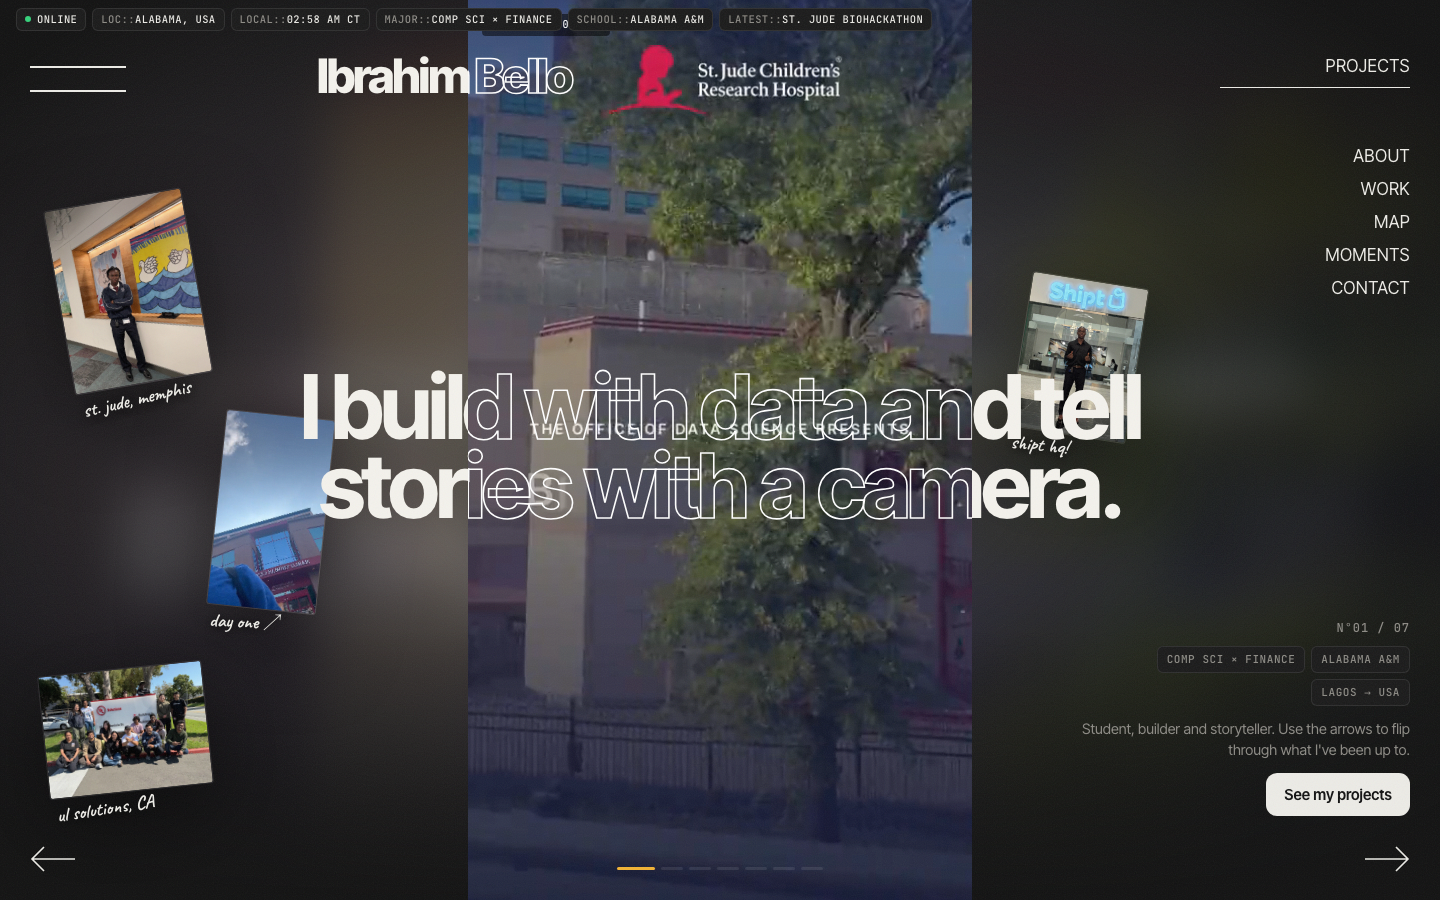
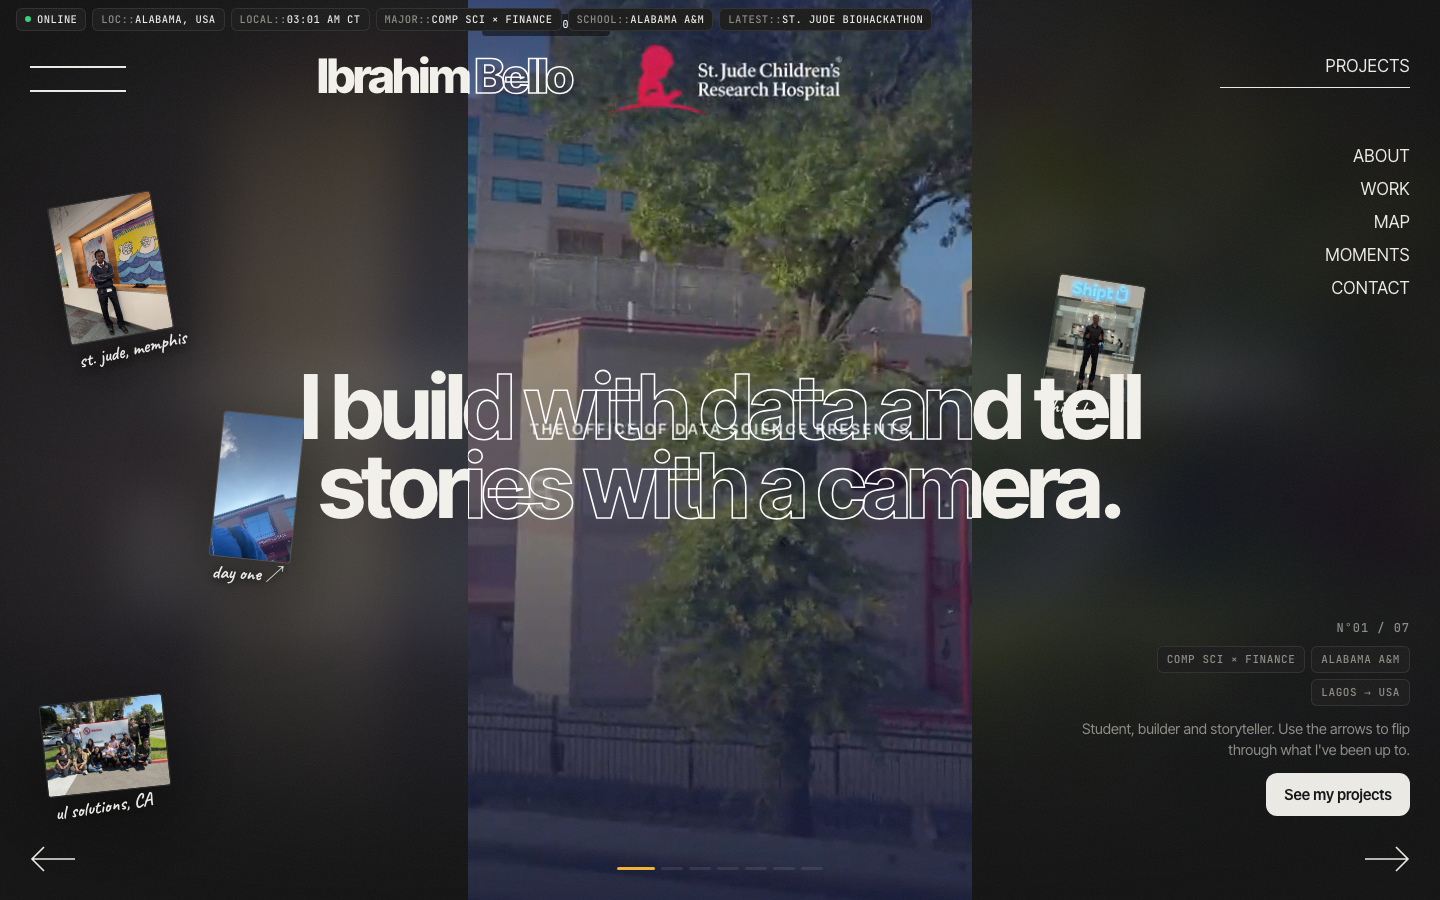
Nudge Shipt float clear of the frame

diff --git a/index.html b/index.html
@@ -353,7 +353,7 @@
   <div class="float" style="--w:105px;--ar:3/4;--r:-10deg;left:4%;top:22%;--t:6s" data-depth="18"><img src="assets/stjude-ducks.jpg" alt="Ibrahim at St. Jude by patients' artwork"><span class="tag">st. jude, memphis</span></div>
   <div class="float" style="--w:82px;--ar:9/16;--r:6deg;left:15%;top:46%" data-depth="36"><video src="assets/arrival.mp4" autoplay muted loop playsinline aria-label="Walking into St. Jude"></video><span class="tag">day one ↗</span></div>
   <div class="float" style="--w:124px;--ar:4/3;--r:-6deg;left:3%;bottom:12%;--t:8s" data-depth="26"><img src="assets/ul-solutions.jpg" alt="UL Solutions intern group"><span class="tag">ul solutions, CA</span></div>
-  <div class="float" style="--w:88px;--ar:3/4;--r:9deg;right:21%;top:31%;--t:7s" data-depth="30"><img src="assets/shipt-hq.jpg" alt="Ibrahim at Shipt HQ"><span class="tag">shipt hq!</span></div>
+  <div class="float" style="--w:88px;--ar:3/4;--r:9deg;right:16%;top:31%;--t:7s" data-depth="30"><img src="assets/shipt-hq.jpg" alt="Ibrahim at Shipt HQ"><span class="tag">shipt hq!</span></div>
 
   <div class="ed-frame" id="edframe"><span class="rec" id="rec">REC · 1080×1920</span><div class="cap" id="pcap"></div></div>
   <div class="ed-layer outer" aria-hidden="true"><div class="ed-mark">Ibrahim Bello</div><div class="ed-head"></div></div>
